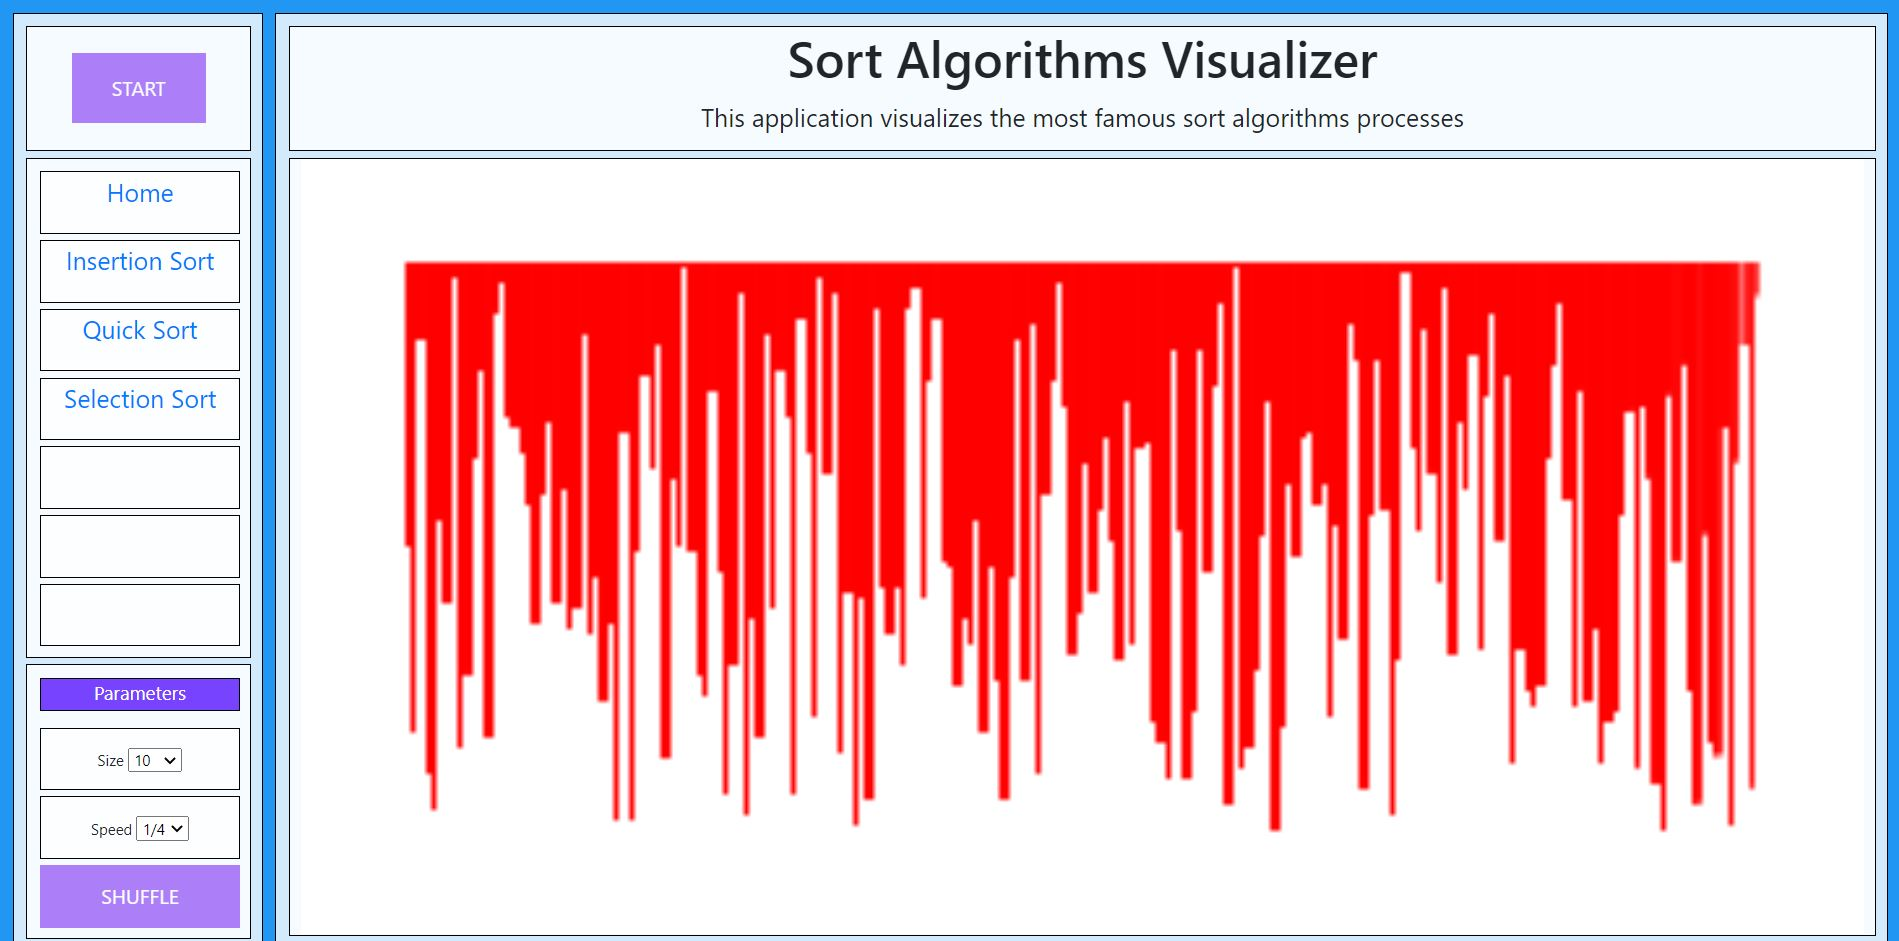
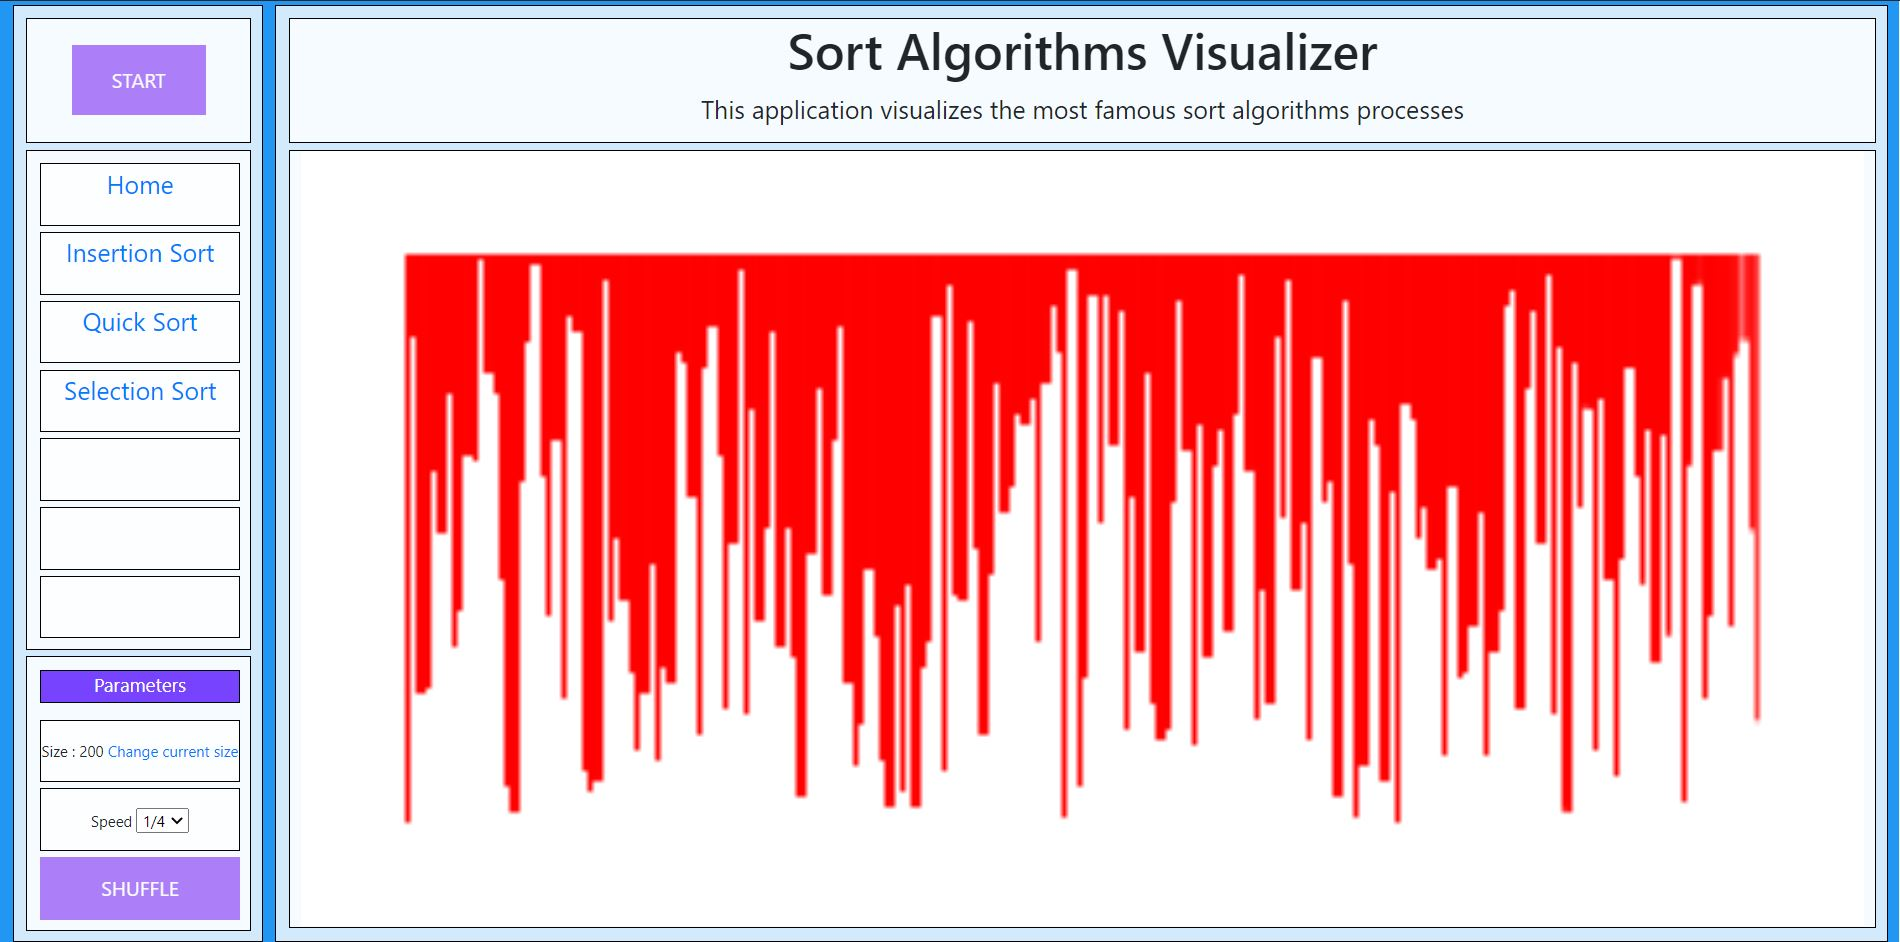
Backend : Add change size option using POST MAPPING && Frontend design update

diff --git a/src/main/resources/templates/sortview.html b/src/main/resources/templates/sortview.html
@@ -34,24 +34,15 @@
                     <div></div>
                 </div>
                 <div class="grid-container-4">
+
                     <label>Parameters</label>
                     <div>
-                        <label>Size</label>
-                        <select name="cars" id="size">
-                            <option value="10">10</option>
-                            <option value="30">30</option>
-                            <option value="50">50</option>
-                            <option value="70">70</option>
-                            <option value="100">100</option>
-                            <option value="200">200</option>
-                            <option value="300">300</option>
-                            <option value="400">400</option>
-                            <option value="500">500</option>
-                        </select>
+                        <label id="sizelabel"></label>
+                        <a href="/">Change current size</a>
                     </div>
                     <div>
                         <label>Speed</label>
-                        <select name="cars" id="speed">
+                        <select name="speed" id="speed">
                             <option value="0.25">1/4</option>
                             <option value="0.5">1/2</option>
                             <option value="1">1</option>
@@ -62,6 +53,7 @@
                         </select>
                     </div>
                     <button onclick="shuffle()">SHUFFLE</button>
+
                 </div>
             </div>
             <div class="grid-container-2">
@@ -77,6 +69,7 @@
 
     <script src="canvas.js"></script>
     <script>
+
         let canvas = document.getElementById('myCanvas');
         let CANVAS_WIDTH = canvas.width;
         let CANVAS_HEIGHT = canvas.height;
@@ -89,6 +82,9 @@
         let rect_width = (CANVAS_WIDTH - 2*X)/(2*ARRAY_SIZE-1);
         let i =1;
         let sp;
+
+        let x = document.getElementById('sizelabel');
+        x.innerText = "Size : "+current.length;
         function shuffle(){
 
             ctx.beginPath();

diff --git a/src/main/resources/templates/home.html b/src/main/resources/templates/home.html
@@ -33,8 +33,25 @@
                 <div></div>
                 <div></div>
             </div>
-            <div>
-
+            <div class="grid-container-5">
+                <label>Parameters</label>
+                <div>
+                    <label>Size</label>
+                    <form method="post" th:object="${size}">
+                        <select name="size" id="size">
+                            <option value="10">10</option>
+                            <option value="30">30</option>
+                            <option value="50">50</option>
+                            <option value="70">70</option>
+                            <option value="100">100</option>
+                            <option value="200">200</option>
+                            <option value="300">300</option>
+                            <option value="400">400</option>
+                            <option value="500">500</option>
+                        </select>
+                        <input type = "submit" value = "Submit"/>
+                    </form>
+                </div>
             </div>
         </div>
         <div class="grid-container-2">

diff --git a/src/main/resources/static/stylesheet.css b/src/main/resources/static/stylesheet.css
@@ -78,6 +78,7 @@
     font-size: 12px;
     padding-top: 15px;
 }
+
 .grid-container-4 > label {
     background-color: rgba(89, 21, 255, 0.8);
     border: 1px solid black;
@@ -104,6 +105,33 @@
 .grid-container-4 > button:hover {
     opacity: 1
 }
+
+.grid-container-5 {
+    display: grid;
+    grid-template-rows: 35px 150px;
+    grid-template-columns: 160px;
+    grid-gap: 5px;
+    background-color: #2196F3;
+    padding: 10px;
+}
+
+.grid-container-5 > div {
+    background-color: rgba(255, 255, 255, 0.8);
+    border: 1px solid black;
+    text-align: center;
+    font-size: 12px;
+    padding-top: 15px;
+}
+.grid-container-5 > label {
+    background-color: rgba(89, 21, 255, 0.8);
+    border: 1px solid black;
+    text-align: center;
+    font-size: 15px;
+    color: white;
+
+}
+
+
 
 
 

diff --git a/src/main/java/myb/projects/AlgoVisualizer/controllers/HomeController.java b/src/main/java/myb/projects/AlgoVisualizer/controllers/HomeController.java
@@ -8,6 +8,8 @@ import org.springframework.beans.factory.annotation.Value;
 import org.springframework.stereotype.Controller;
 import org.springframework.ui.ModelMap;
 import org.springframework.web.bind.annotation.GetMapping;
+import org.springframework.web.bind.annotation.ModelAttribute;
+import org.springframework.web.bind.annotation.PostMapping;
 import org.springframework.web.bind.annotation.RequestMapping;
 
 import java.util.List;
@@ -15,7 +17,14 @@ import java.util.List;
 @Controller
 public class HomeController {
 
-    private int size = 200;
+    private int size = 10;
+
+    @PostMapping("/")
+    public String save(@ModelAttribute("size")int s, ModelMap model) {
+        model.addAttribute("size", s);
+        this.size = s;
+        return "sortview";
+    }
 
     @RequestMapping("/")
     public String home(ModelMap modelMap){

diff --git a/README.md b/README.md
@@ -1,3 +1,6 @@
 # Sort Algorithms Visualizer 
 A Spring application that visualizes the most famous sort algorithms processes
 ![](src/main/resources/static/imgs/demo-img.JPG)
+
+![](src/main/resources/static/imgs/demo-img-1.JPG)
+
